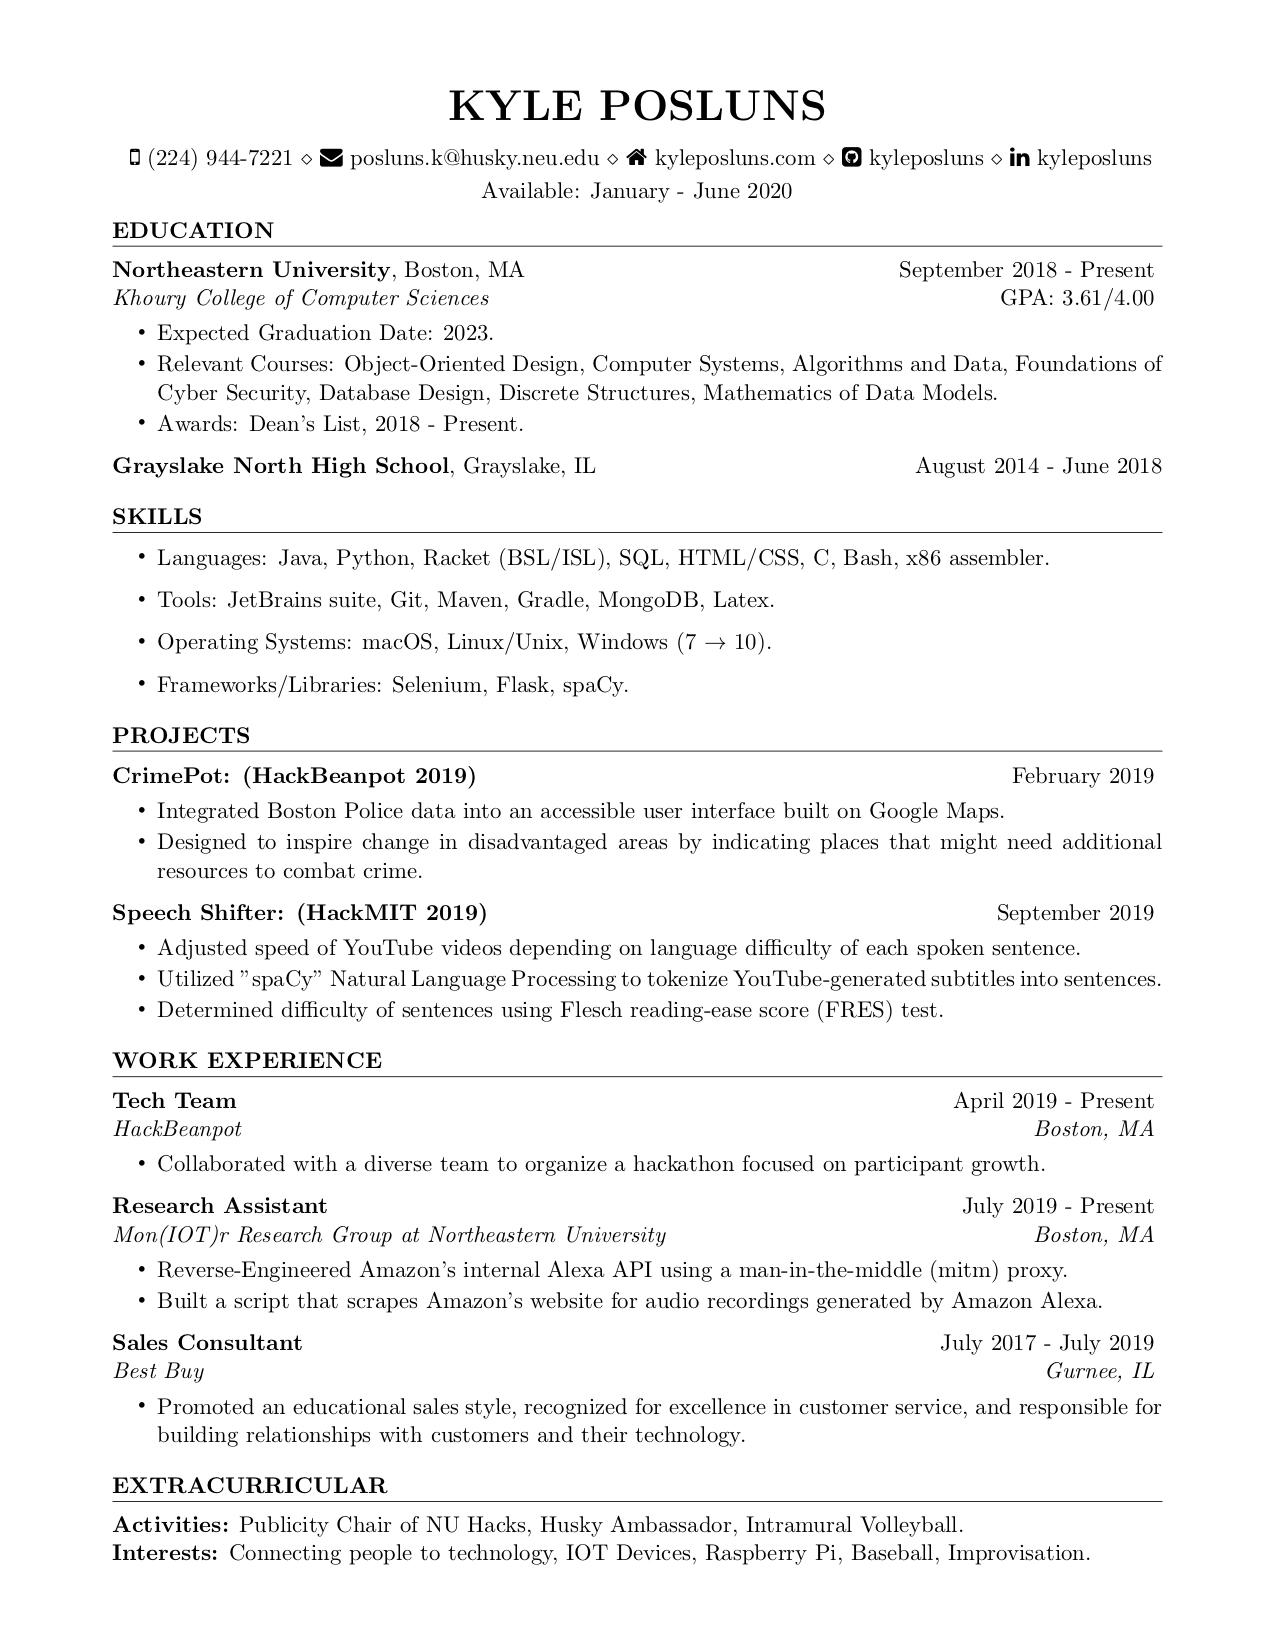
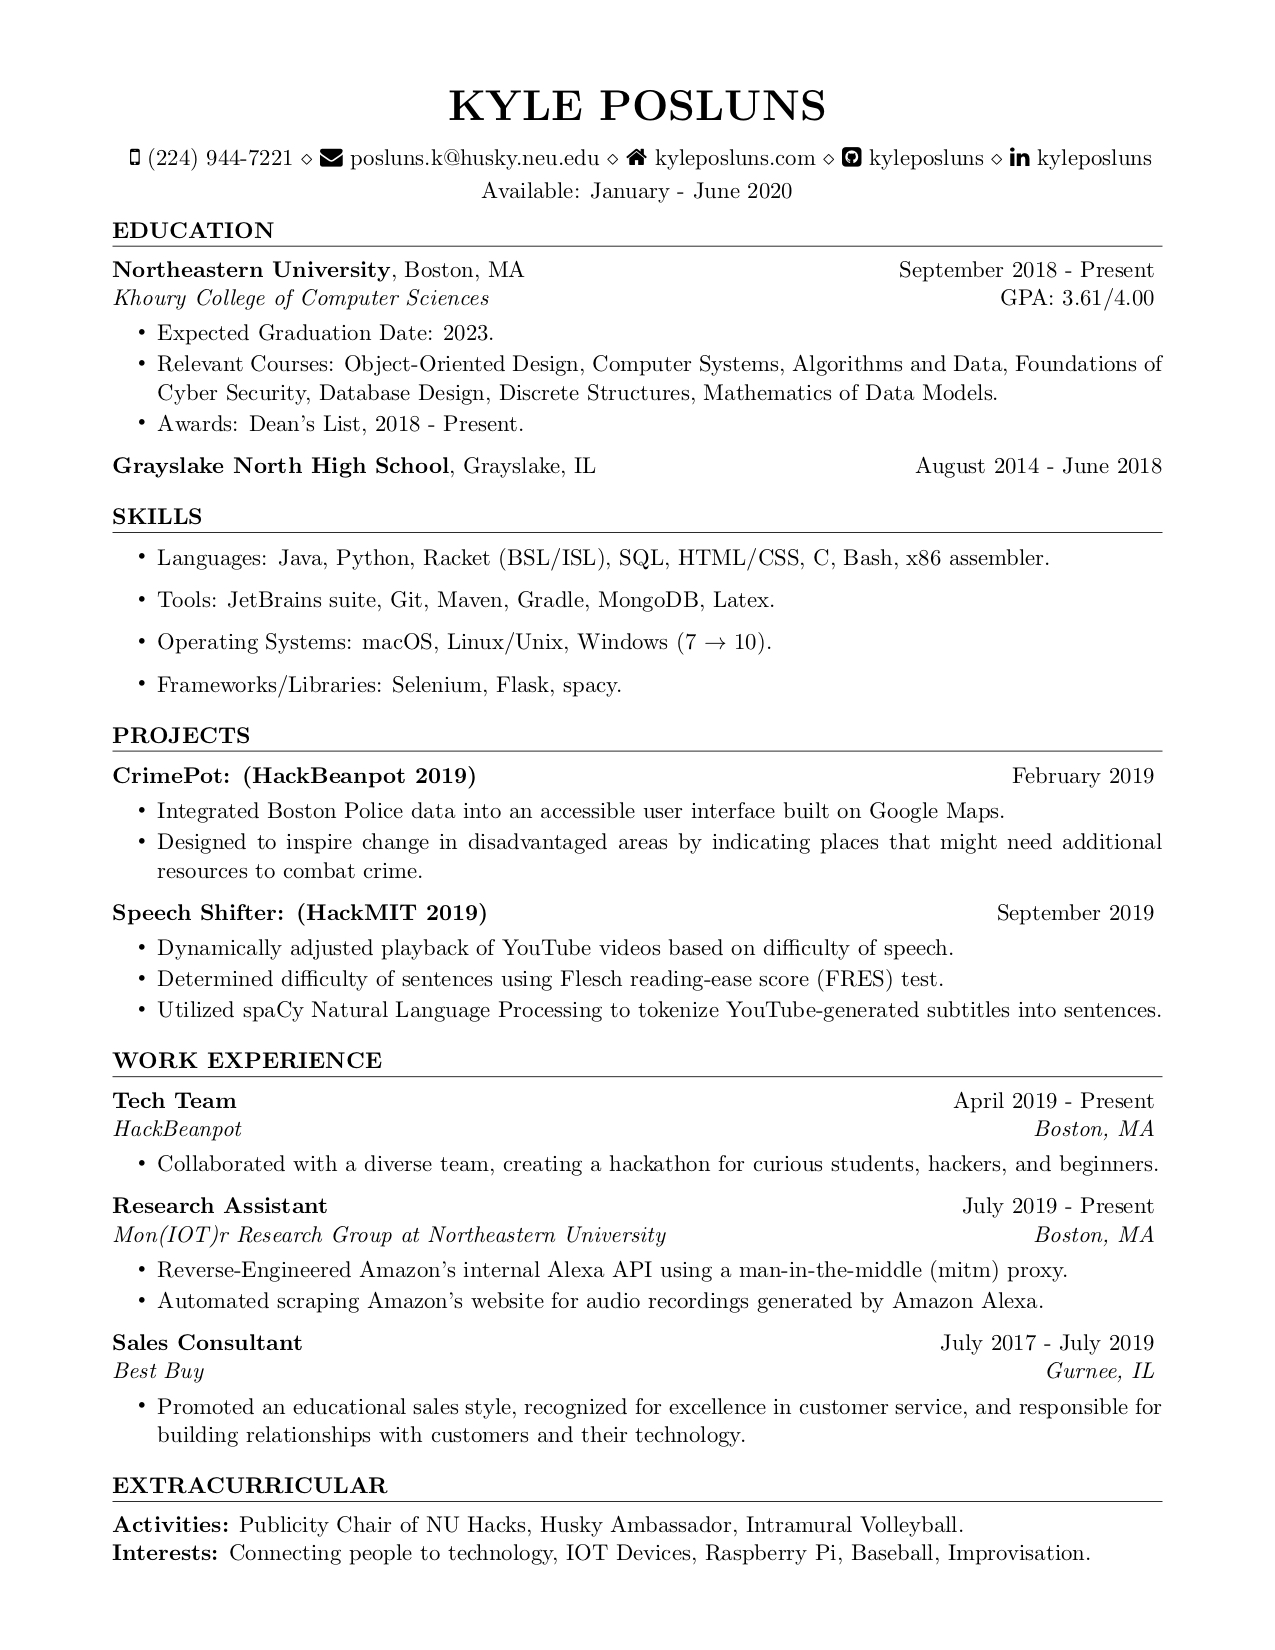
Updated resume.

diff --git a/src/resume.tex b/src/resume.tex
@@ -44,7 +44,7 @@
     \item Languages: Java, Python, Racket (BSL/ISL), SQL, HTML/CSS, C, Bash, x86 assembler. 
     \item Tools: JetBrains suite, Git, Maven, Gradle, MongoDB, Latex.
     \item Operating Systems: macOS, Linux/Unix, Windows (7 $\to$ 10).
-    \item Frameworks/Libraries: Selenium, Flask, spaCy.
+    \item Frameworks/Libraries: Selenium, Flask, spacy.
   \end{list}
 \end{rSection}
 \begin{rSection}{Projects}
@@ -55,9 +55,9 @@
 \end{rSubsection}
 
 \begin{rSubsection}{\href{https://www.devpost.com/software/SpeechShifter}{\bf Speech Shifter: (HackMIT 2019)}}{September 2019}{}{}
-\item Adjusted speed of YouTube videos depending on language difficulty of each spoken sentence.
-\item Utilized \href{https://www.spacy.io}{"spaCy"} Natural Language Processing to tokenize YouTube-generated subtitles into sentences.
+\item Dynamically adjusted playback of YouTube videos based on difficulty of speech. 
 \item Determined difficulty of sentences using Flesch reading-ease score (FRES) test.
+\item Utilized \href{https://www.spacy.io}{spaCy} Natural Language Processing to tokenize YouTube-generated subtitles into sentences.
 \end{rSubsection}
 
 \end{rSection}
@@ -65,12 +65,12 @@
 \begin{rSection}{Work Experience}
 
 \begin{rSubsection}{Tech Team}{April 2019 - Present}{HackBeanpot}{Boston, MA}
-\item Collaborated with a diverse team to organize a hackathon focused on participant growth.
+\item Collaborated with a diverse team, creating a hackathon for curious students, hackers, and beginners.
 \end{rSubsection}
 
 \begin{rSubsection}{Research Assistant}{July 2019 - Present}{Mon(IOT)r Research Group at Northeastern University}{Boston, MA}
 \item Reverse-Engineered Amazon's internal Alexa API using a man-in-the-middle (mitm) proxy. 
-\item Built a script that scrapes Amazon's website for audio recordings generated by Amazon Alexa.
+\item Automated scraping Amazon's website for audio recordings generated by Amazon Alexa.
 \end{rSubsection}
 
 \begin{rSubsection}{Sales Consultant}{July 2017 - July 2019}{Best Buy}{Gurnee, IL}
